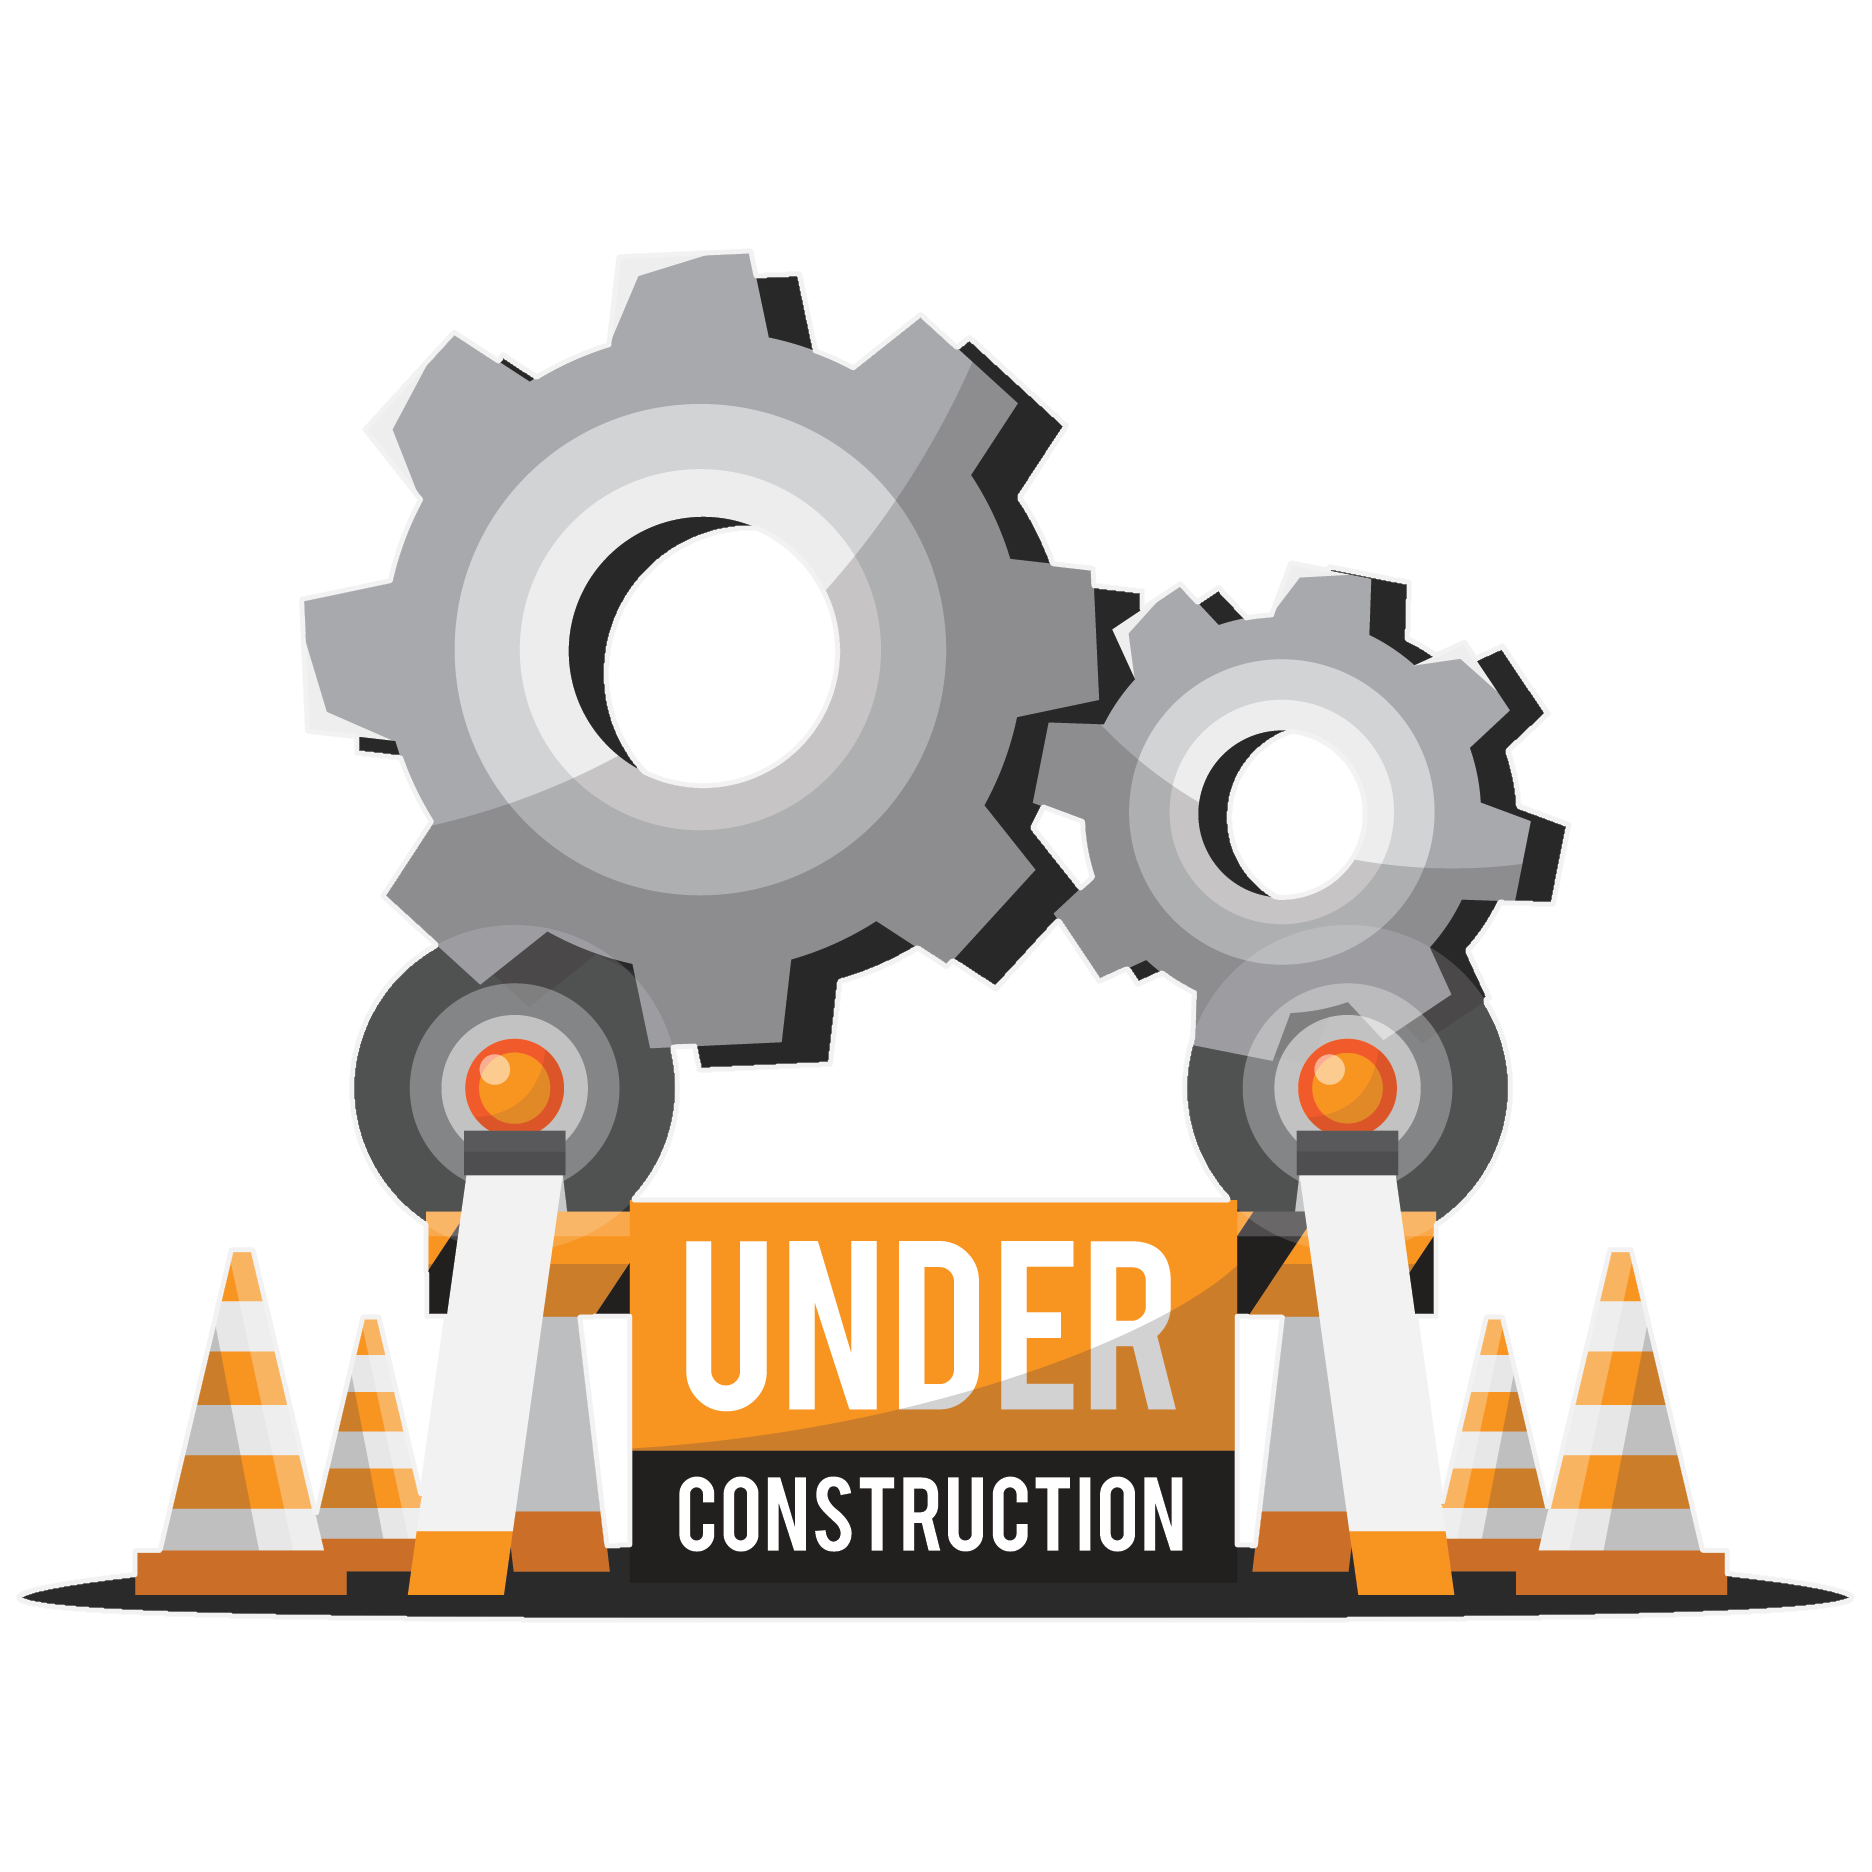
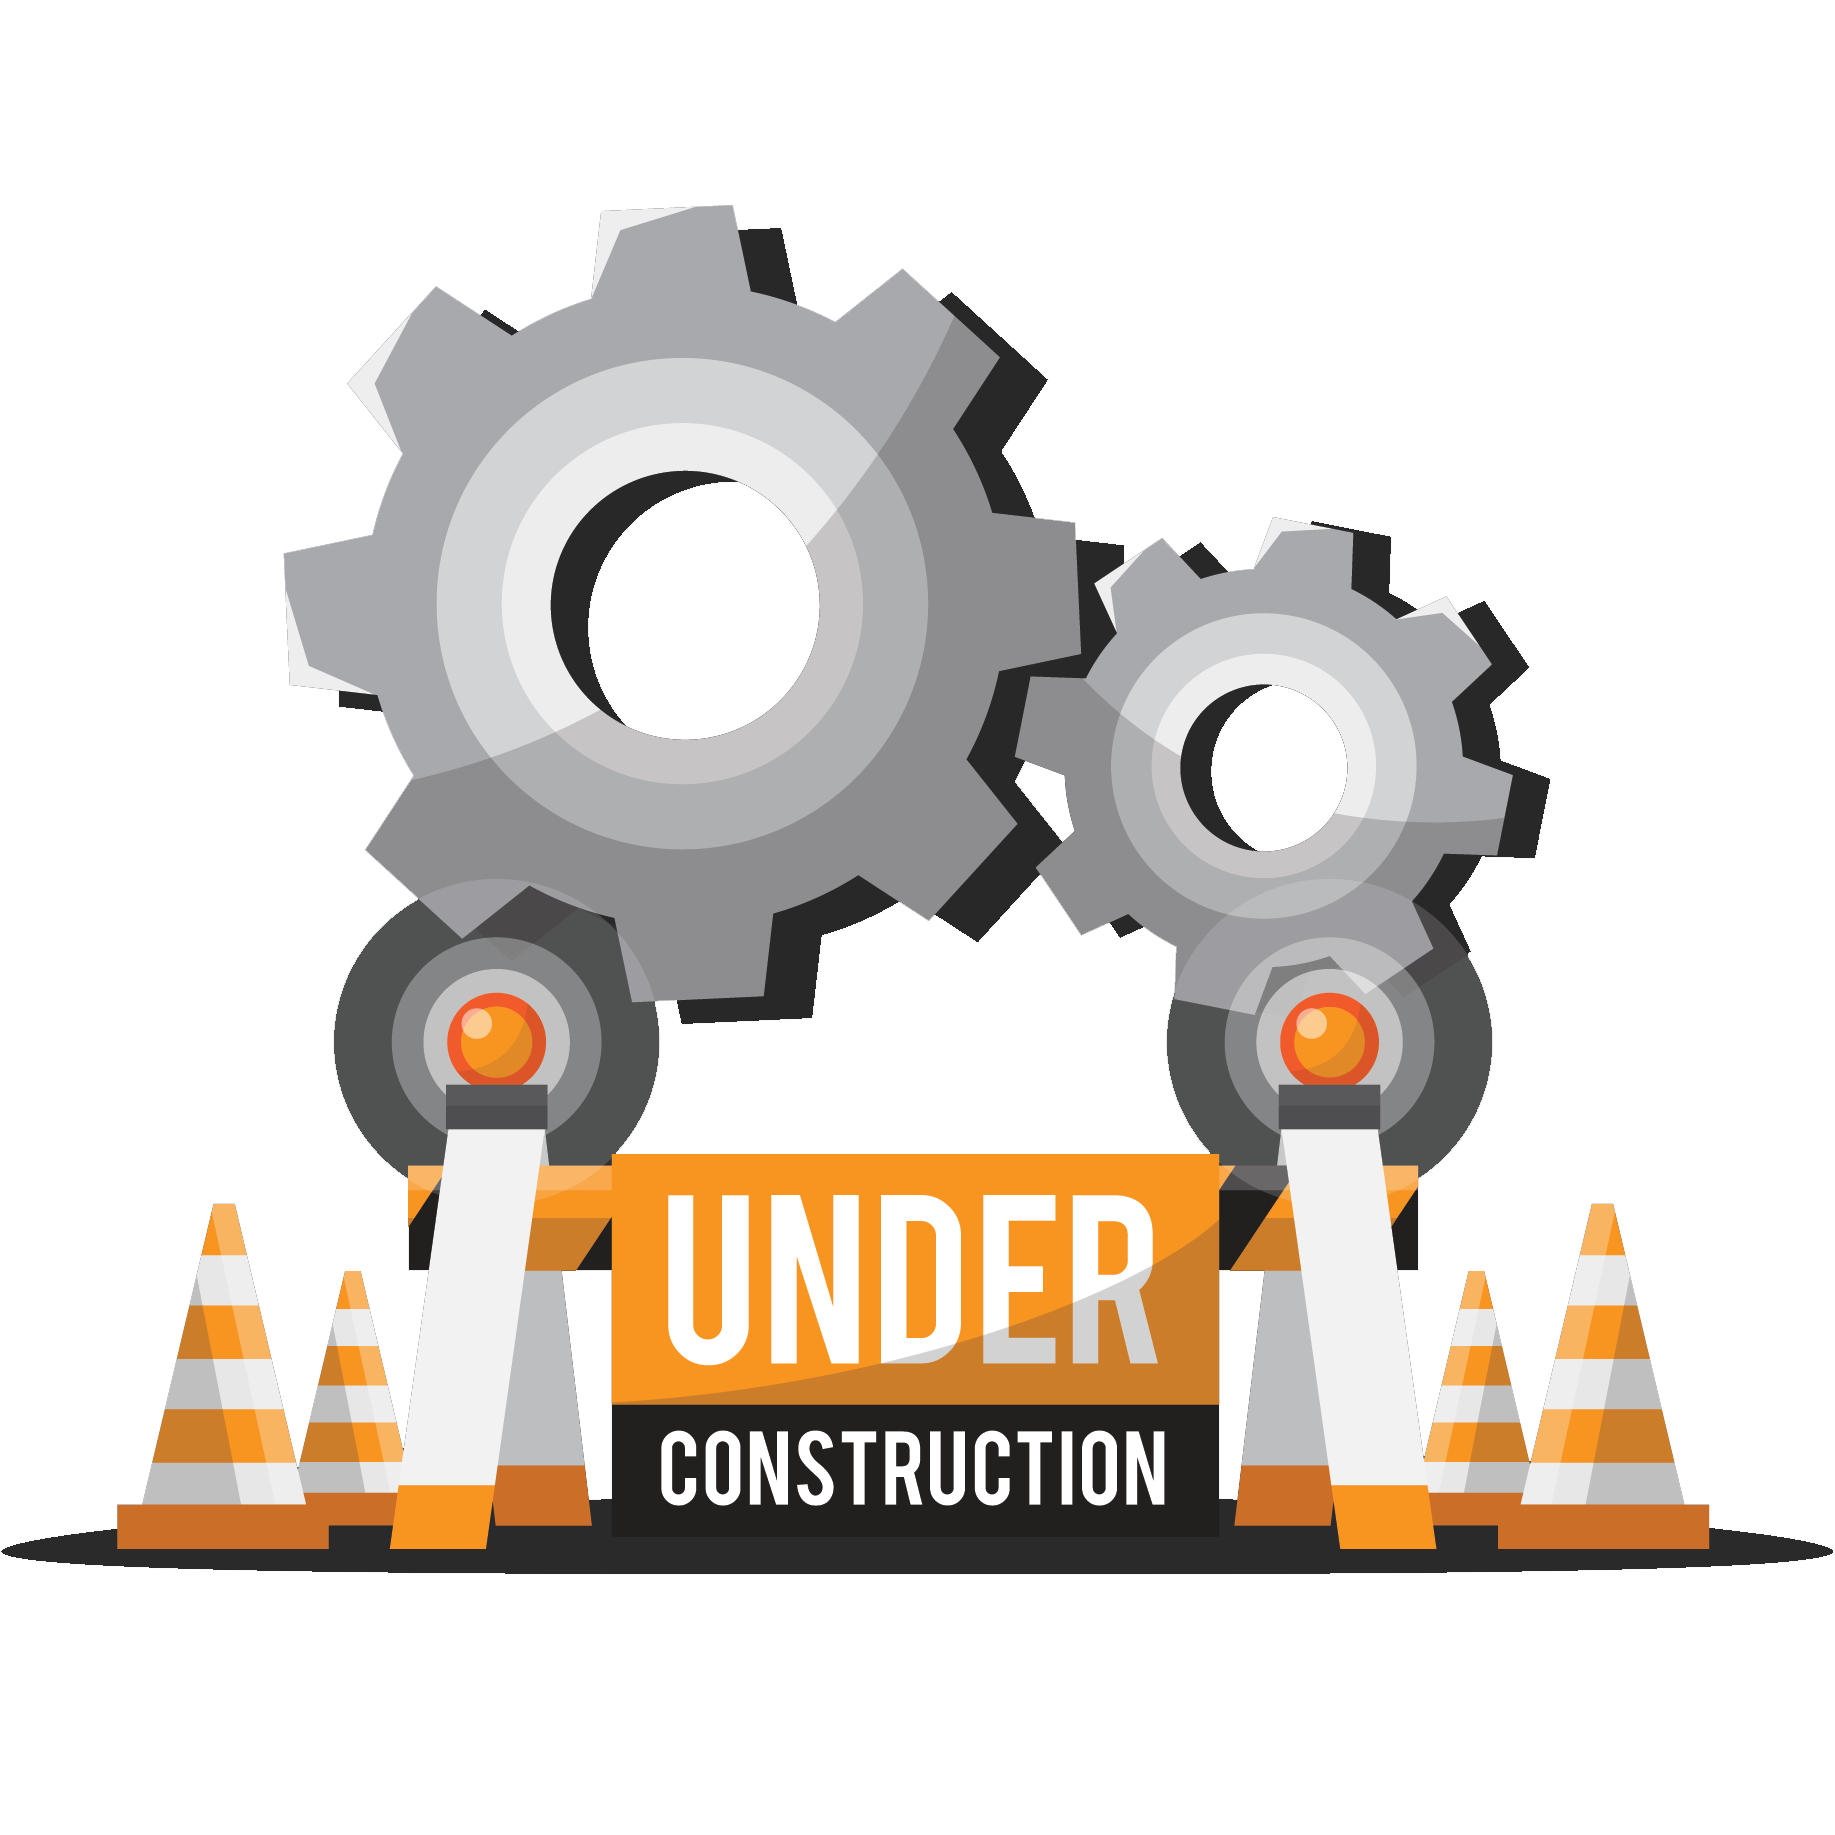
Started working on new project blog - ESP32audioPlayer

Changed region(s): [[0.0, 0.0932, 1.0, 0.8698], [0.4659, 0.3728, 0.497, 0.4349], [0.4349, 0.3417, 0.4659, 0.3728]]

diff --git a/_posts/2025-12-06-ESP32audioPlayer.md b/_posts/2025-12-06-ESP32audioPlayer.md
@@ -1,16 +1,14 @@
 ---
-title: Building an Audio {layer
+title: Building an Audio Player
 date: 2025-12-06 04:57:00 +0530
 #categories: [category, sub-category]
 #tags: [tag1, tag2, tag3]
 description: Inspired by Sony-Walkman
-#image:
-#  path: /assets/img/cover.png
-#  alt: Image size should be 1200 x 630 or 1.91 : 1
+image:
+  path: /assets/img/underConstruction/2.png
+  alt: Soon!
 pin: false
 math: true
 mermaid: true
 comments: true
 ---
-
-![-](/assets/img/underConstruction/1.png){: width="auto" height="300" rel="noopener noreferrer"}
